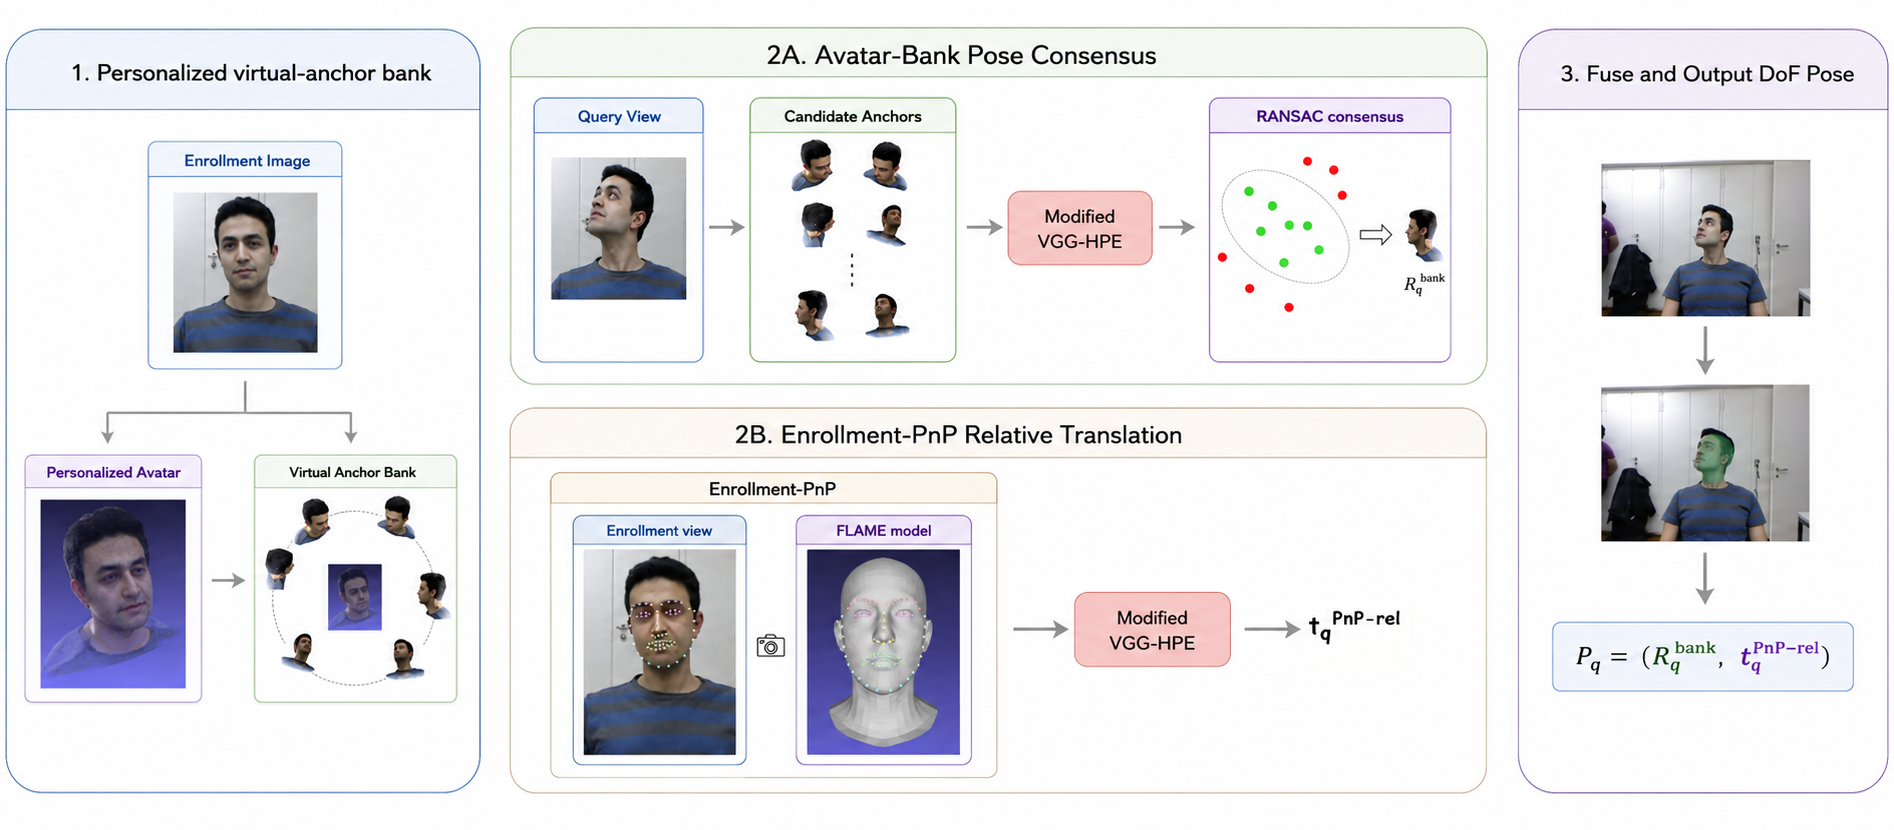
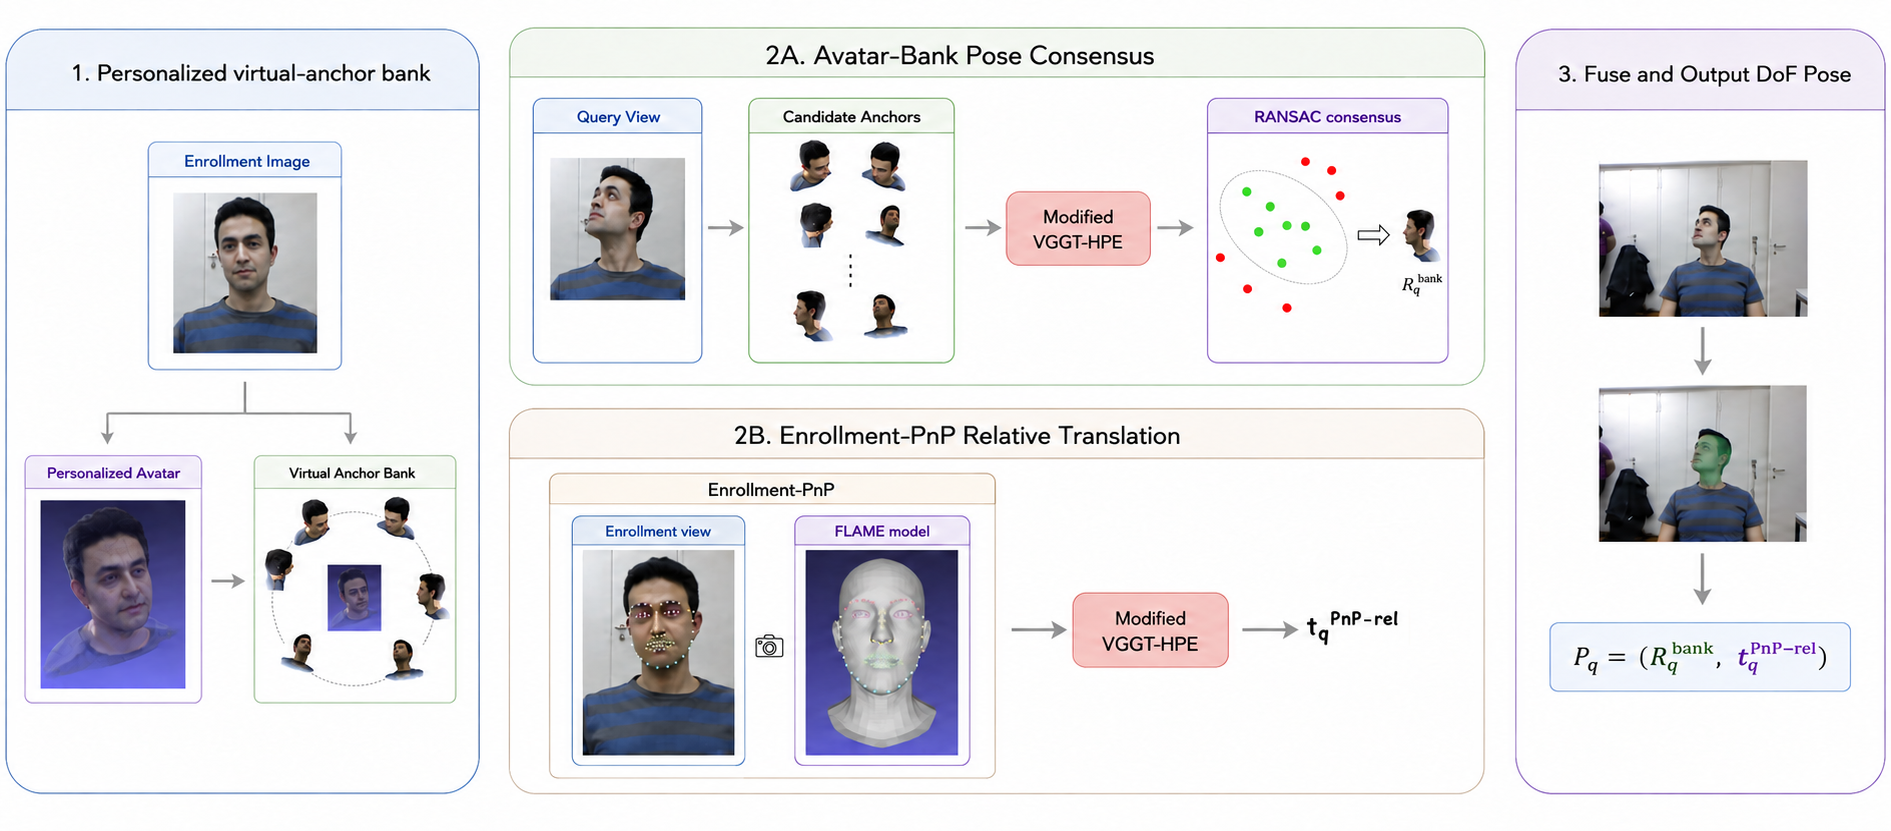
Enable the code and model buttons and update the method figure

diff --git a/ReVA-HPE/index.html b/ReVA-HPE/index.html
@@ -160,12 +160,17 @@
                 </a>
               </span>
               <span class="link-block">
-                <!-- Repo temporarily private for the release review; restore href="https://github.com/VasilikiVas/ReVA-HPE" and remove is-disabled when it is public again. -->
-                <a class="external-link button is-normal is-rounded is-dark is-disabled">
+                <a class="external-link button is-normal is-rounded is-dark" href="https://github.com/VasilikiVas/ReVA-HPE">
                   <span class="icon">
                     <i class="fab fa-github"></i>
                   </span>
-                  <span>Code (back soon)</span>
+                  <span>Code</span>
+                </a>
+              </span>
+              <span class="link-block">
+                <a class="external-link button is-normal is-rounded is-dark" href="https://huggingface.co/Sila97/ReVA-HPE">
+                  <span class="icon">&#129303;</span>
+                  <span>Model</span>
                 </a>
               </span>
             </div>
